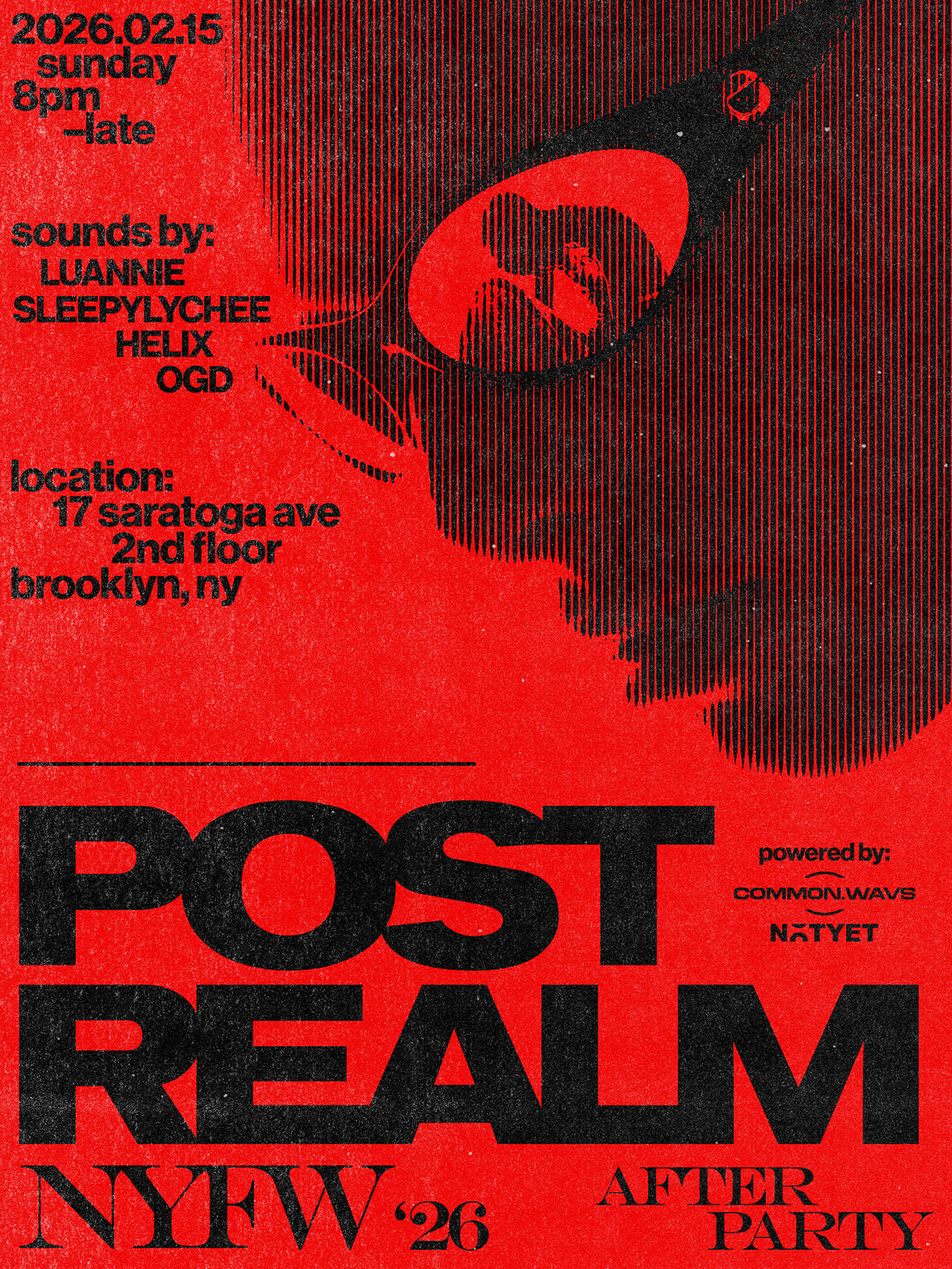
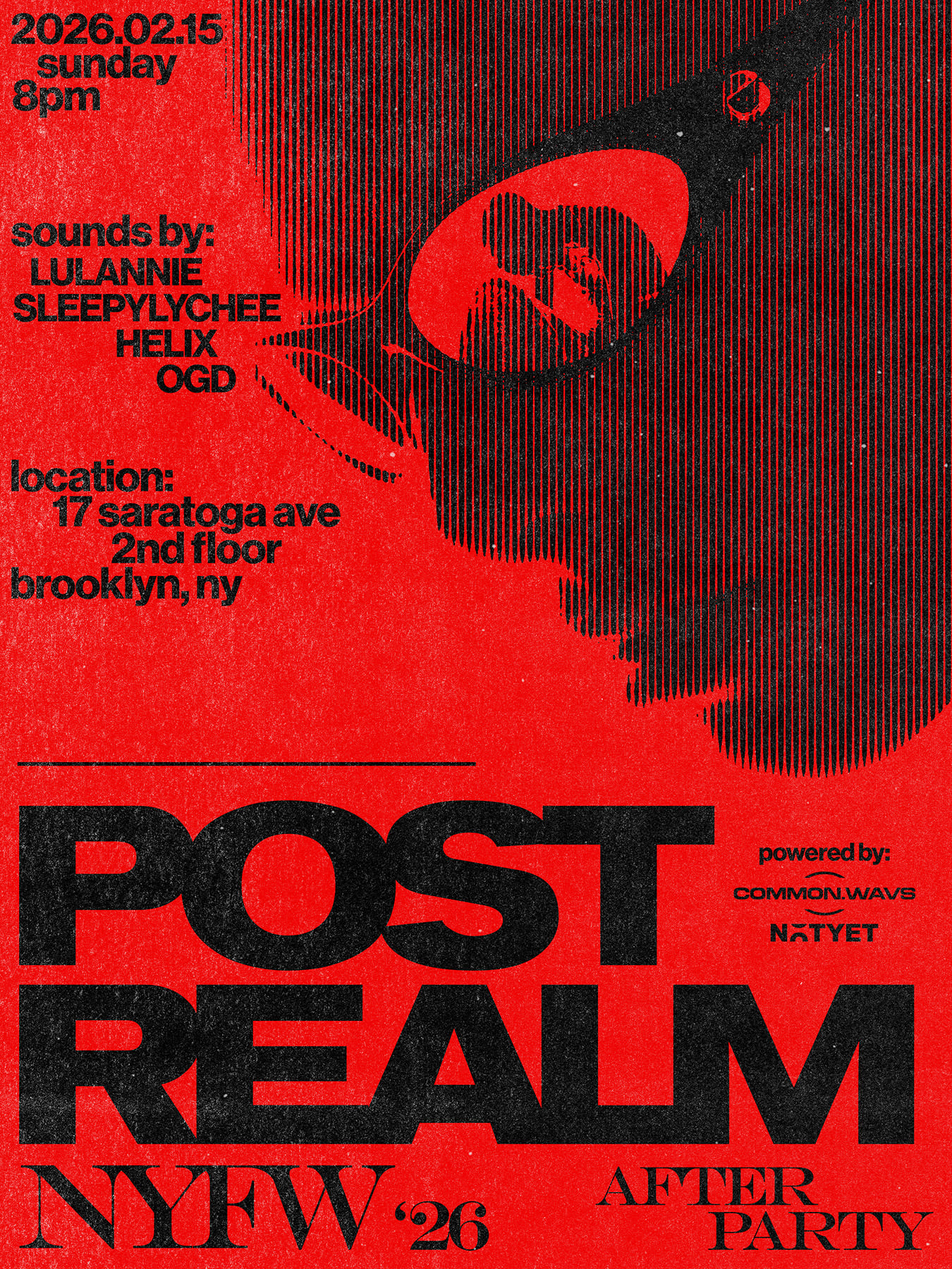
- Added smaller thumbnail image for post realm - Updated post realm poster images (corrected names, slight layout changes)

diff --git a/src/data/DesignData.jsx b/src/data/DesignData.jsx
@@ -18,7 +18,7 @@ export const items = [
             "2026",
             "Poster series design for New York Fashion Week '26 Afterparty",
         ],
-        thumbnail: "/images/nyfw_v1.jpg",
+        thumbnail: "/images/thumbnails/nyfw_thumb.jpg",
         alt: "Poster design for NYFW 2026 Afterparty",
         link: "/design/post-realm",
         externalLink: "",
